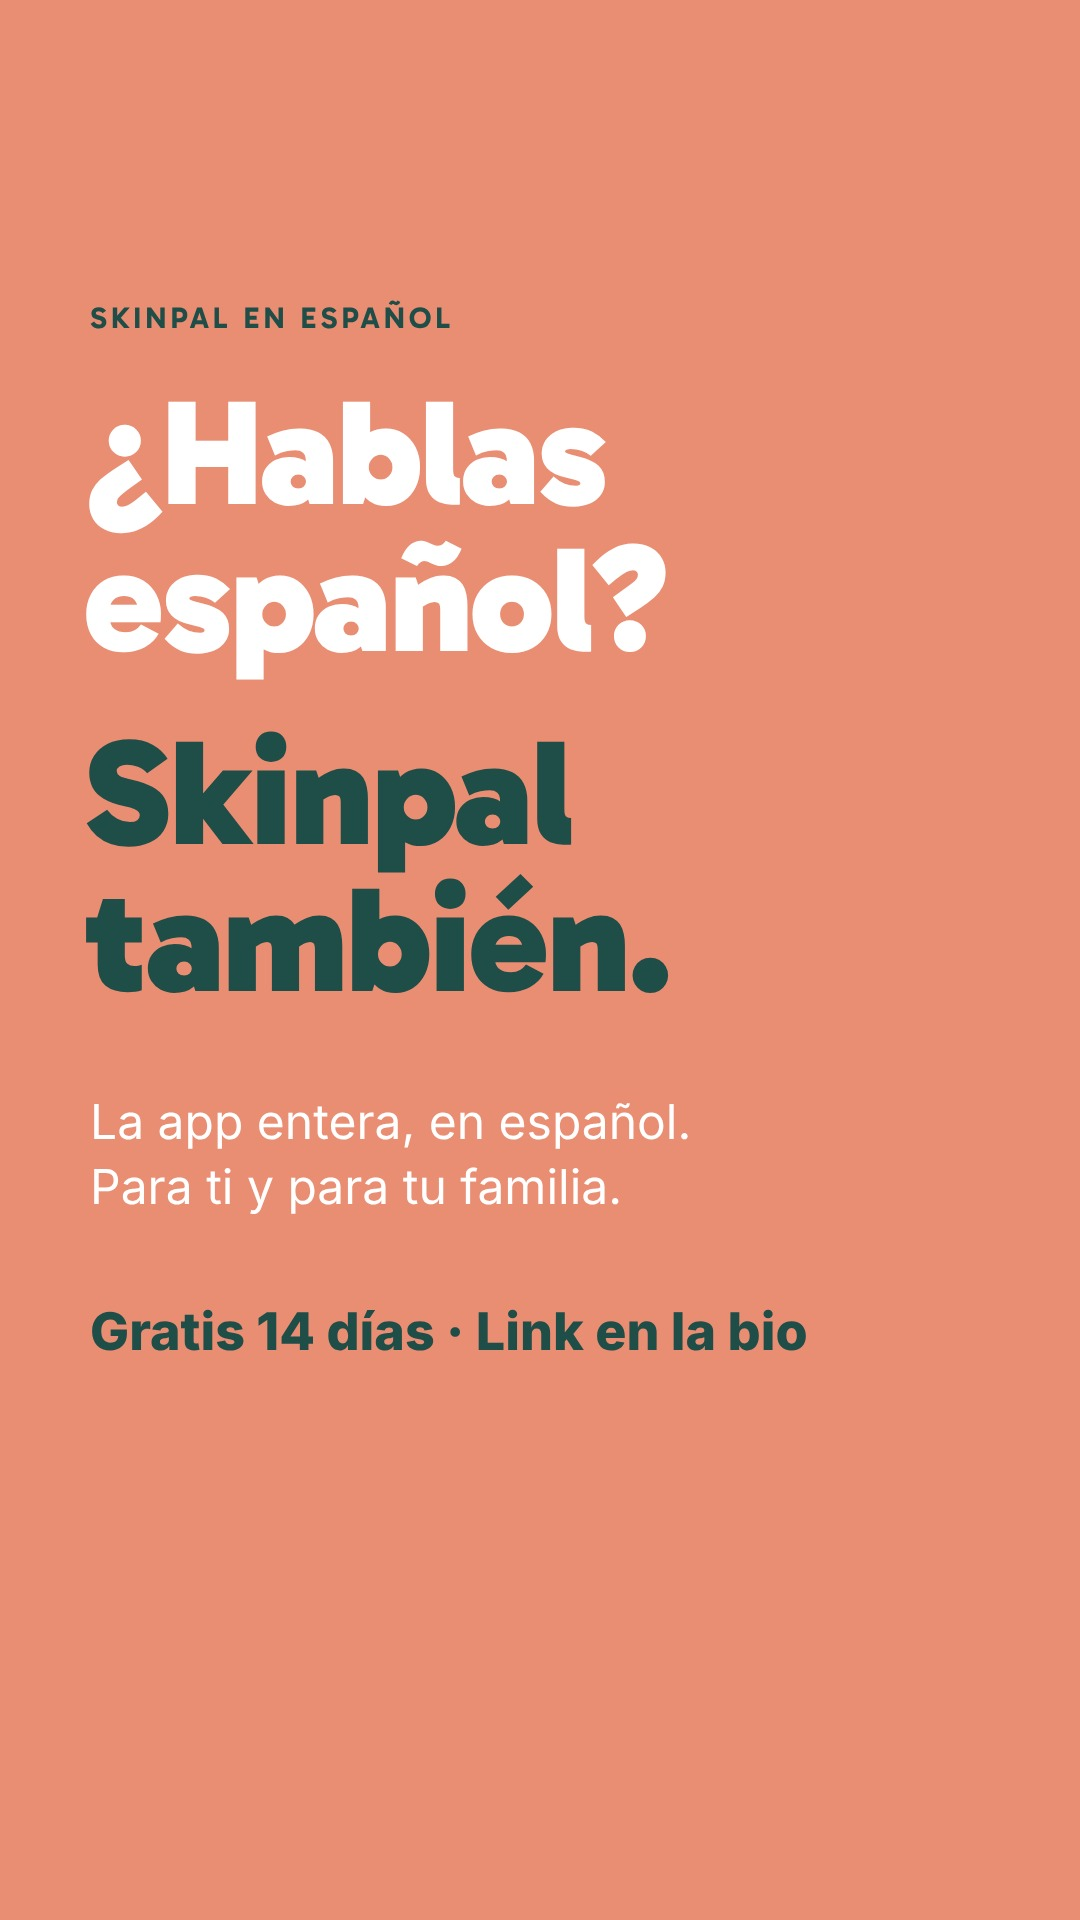
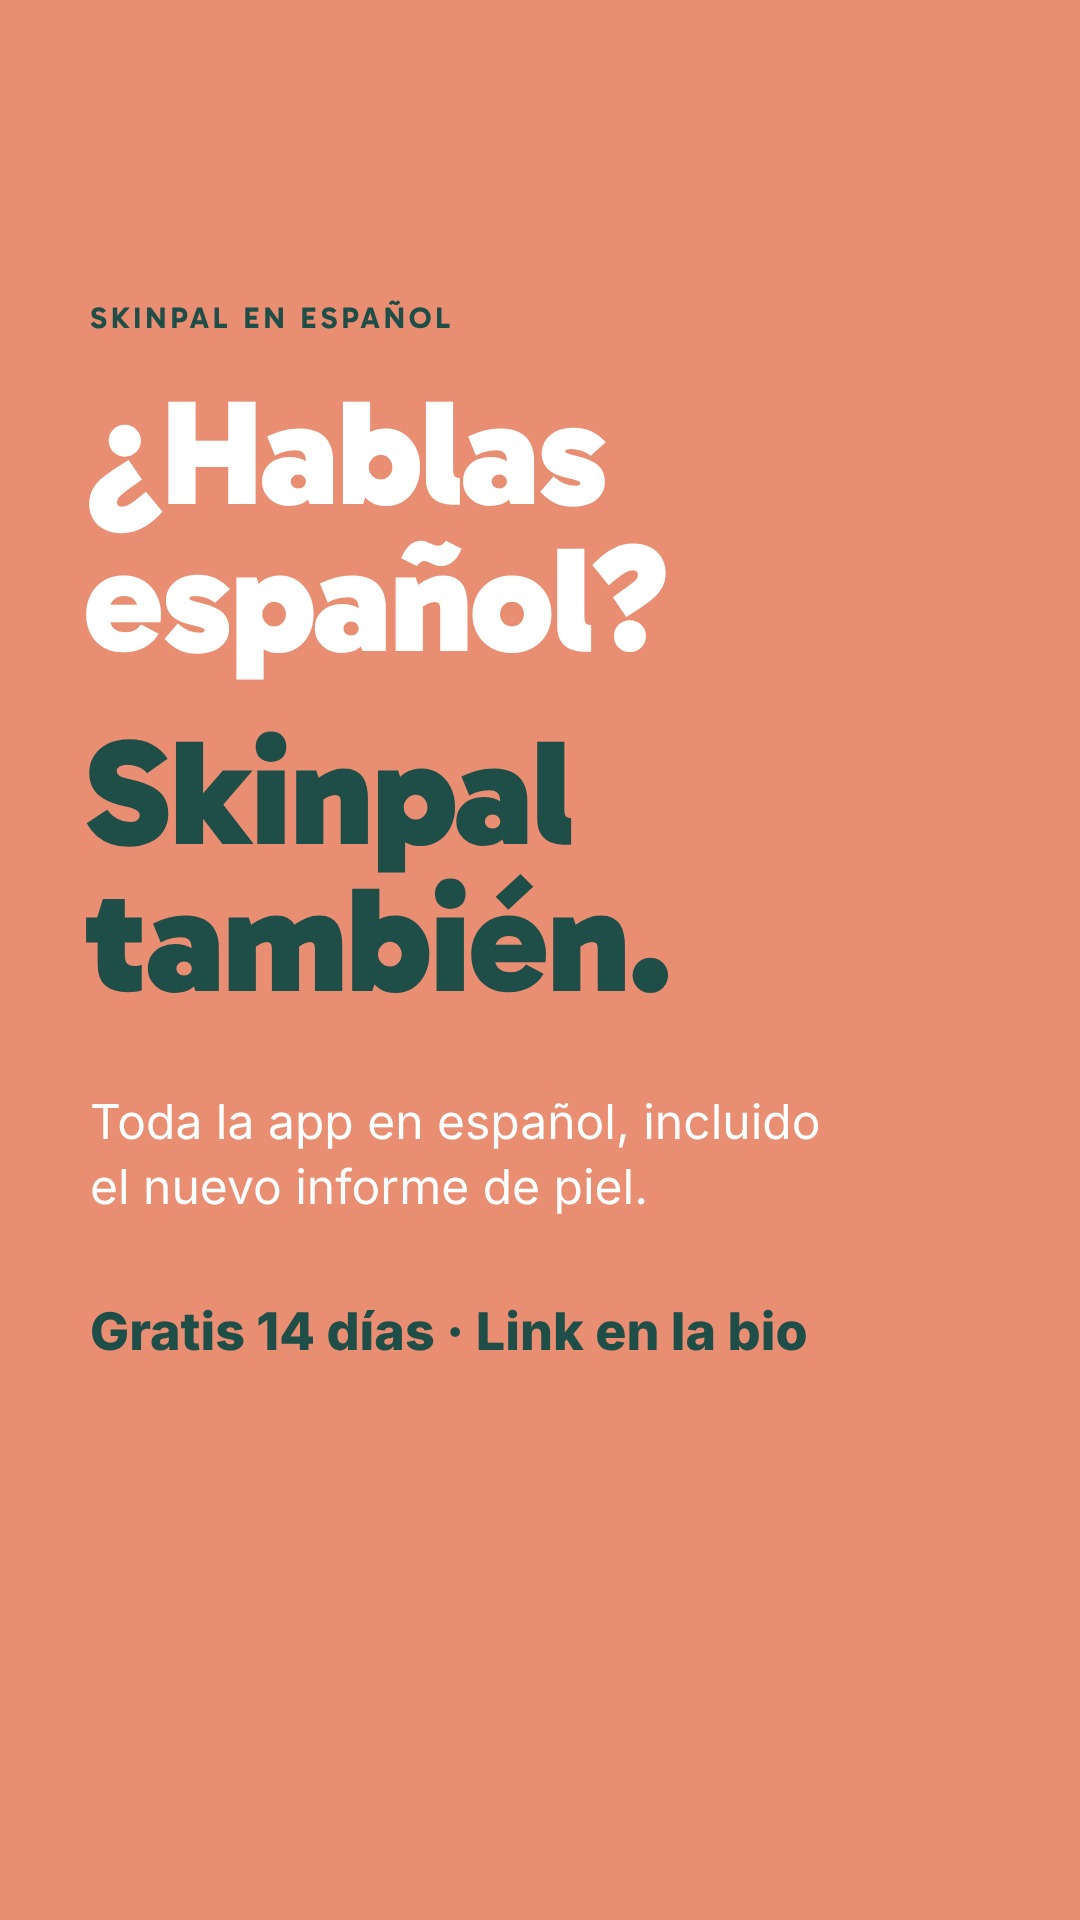
Spanish story: report in Spanish
Claude-Session: https://claude.ai/code/session_01EVqxf8Ge6PxpeAQ2EPT812

Changed region(s): [[0.0917, 0.5625, 0.7639, 0.625]]

diff --git a/tools/week2.js b/tools/week2.js
@@ -69,7 +69,7 @@ const S = {
     <div class="abs k" style="left:90px;top:300px;color:${C.forest}">Skinpal en español</div>
     <div class="abs h" style="left:84px;right:70px;top:380px;font-size:150px;color:#fff">¿Hablas español?</div>
     <div class="abs h" style="left:84px;right:70px;top:720px;font-size:150px;color:${C.forest}">Skinpal también.</div>
-    <div class="abs t" style="left:90px;top:1090px;font-size:48px;line-height:1.35;color:#fff">La app entera, en español.<br>Para ti y para tu familia.</div>
+    <div class="abs t" style="left:90px;top:1090px;font-size:48px;line-height:1.35;color:#fff">Toda la app en español, incluido<br>el nuevo informe de piel.</div>
     <div class="abs t" style="left:90px;top:1300px;font-size:52px;font-weight:800;color:${C.forest}">Gratis 14 días · Link en la bio</div>` },
   // ---------- Skinpal feed, week 2 ----------
   'w2-sp-p13': { h: FEED, bg: C.forest, html: `
